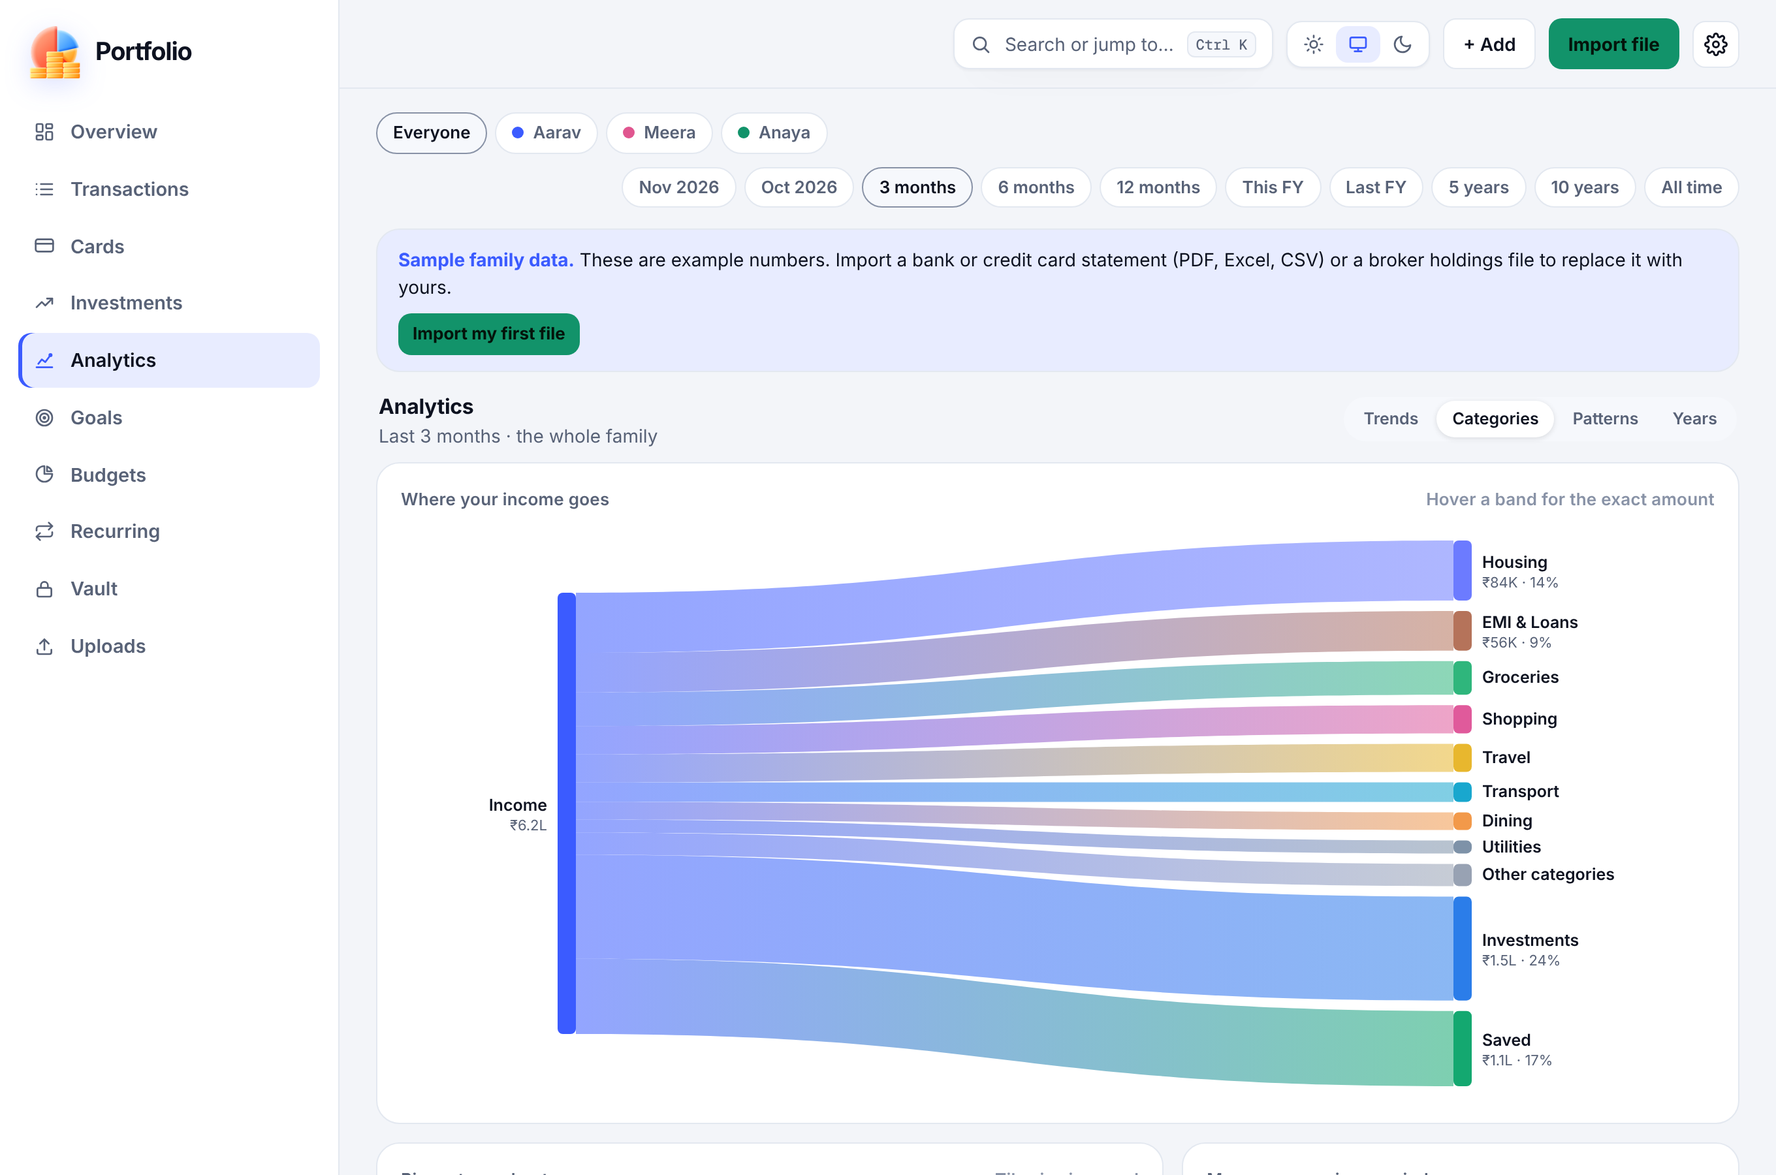
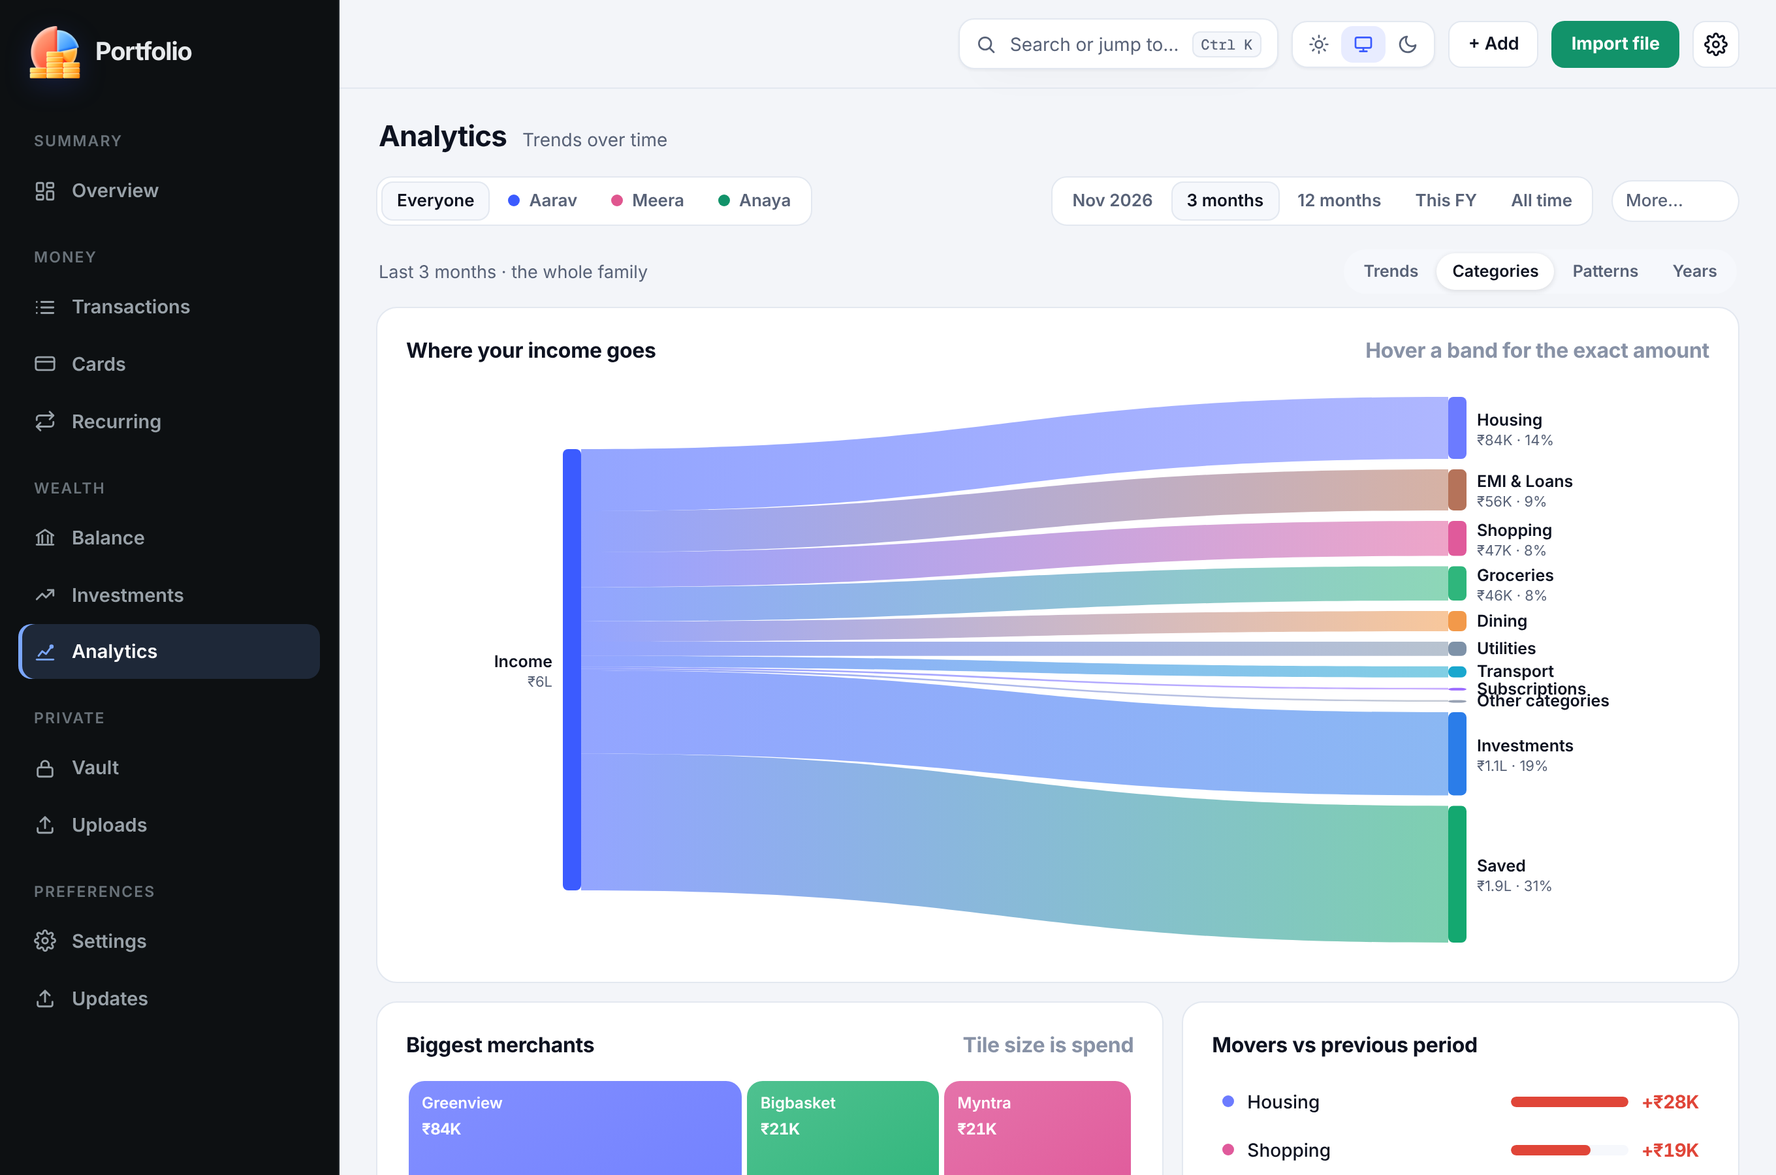
Release 0.3.0: opposite-theme sidebar, smoother motion, Updates page, new screenshots
Claude-Session: https://claude.ai/code/session_01HCoMPc6FfDdFnEnHpuawrr

diff --git a/css/app.css b/css/app.css
@@ -199,17 +199,11 @@ kbd{font:500 11px var(--mono);padding:2px 6px;border-radius:6px;border:1px solid
 .card:hover::before{opacity:1}
 @property --ba{syntax:'<angle>';inherits:false;initial-value:0deg}
 @keyframes spin{to{--ba:360deg}}
-.beam{border:1.5px solid transparent!important;background:linear-gradient(var(--surface),var(--surface)) padding-box,conic-gradient(from var(--ba),transparent 0 58%,var(--accent) 80%,var(--accent2) 92%,transparent 100%) border-box!important}
-.grid>.card.beam{animation:up .6s cubic-bezier(.2,.8,.2,1) backwards,spin 7s linear infinite}
 .noanim .grid>.card,.noanim .cards>.card,.noanim #txrows,.noanim .onb,.noanim .coming,.noanim .hero{animation:none!important}
-.noanim .grid>.card.beam{animation:spin 7s linear infinite!important}
 .noanim .b-in,.noanim .b-out,.noanim .seg{animation:none!important}
-.hero{display:flex;flex-wrap:wrap;justify-content:space-between;align-items:flex-end;gap:12px;margin:6px 2px 16px;animation:up .6s cubic-bezier(.2,.8,.2,1) backwards}
 .eyebrow{font-size:12px;font-weight:600;letter-spacing:.08em;text-transform:uppercase;color:var(--accent)}
-.hero h1{margin:4px 0 2px;font-size:clamp(28px,4.4vw,42px);line-height:1.1;letter-spacing:-.035em;font-weight:650}
 .gtext{background:linear-gradient(100deg,var(--fg) 0%,var(--accent) 35%,var(--accent2) 60%,var(--fg) 100%);background-size:250% 100%;-webkit-background-clip:text;background-clip:text;-webkit-text-fill-color:transparent;color:var(--fg);animation:sheen 9s ease-in-out infinite alternate}
 @keyframes sheen{to{background-position:100% 0}}
-.hero p{margin:0}.hero-r{display:flex;gap:8px;flex-wrap:wrap}
 .coming{display:flex;align-items:center;gap:14px;margin-bottom:14px;padding:10px 16px;border:1px solid var(--line);border-radius:18px;background:var(--surface);box-shadow:var(--shadow);min-width:0;animation:up .6s .05s cubic-bezier(.2,.8,.2,1) backwards}
 .clabel{display:flex;flex-direction:column;flex:none;line-height:1.25}.clabel span{font-size:12px;font-weight:600;color:var(--muted)}.clabel b{font-size:17px;font-weight:550}.clabel small{color:var(--faint);font-size:11.5px}
 .marq{flex:1;min-width:0;overflow:hidden;-webkit-mask-image:linear-gradient(90deg,transparent,#000 5%,#000 95%,transparent);mask-image:linear-gradient(90deg,transparent,#000 5%,#000 95%,transparent)}
@@ -322,9 +316,6 @@ body{background-image:none}
   main{max-width:1280px}
 }
 .kpi::after,body::before{display:none}
-.beam{border:1px solid var(--line)!important;background:var(--surface)!important;animation:none!important}
-.hero h1,.hero h1 *{background:none!important;-webkit-text-fill-color:currentColor!important;color:var(--fg)!important}
-.hero h1{font-size:clamp(26px,3.4vw,34px)}
 .kpi .val{font-weight:650}
 .card .foot{flex-wrap:wrap}
 /* KPI cards */
@@ -464,13 +455,19 @@ select:hover,.csel:hover{border-color:color-mix(in srgb,var(--fg) 25%,var(--line
 .split .lrow .nm{overflow:visible;text-overflow:clip;white-space:normal;line-height:1.25}
 .split .lrow{gap:8px}
 
-/* ---- dark sidebar in every theme (Finstack-style) ---- */
+/* ---- sidebar is the opposite of the page: dark beside a light page, light beside a dark page ---- */
 @media(min-width:1100px){
   .tabs{--fg:#E7EAEC;--muted:#98A1A8;--faint:#6A737A;--surface-2:#1a1e21;--line:#22272b;--accent-soft:rgba(123,167,255,.16);--accent:#7BA7FF;background:#0d1012;color:var(--fg)}
-  .tabs .navh{color:#6A737A}
-  .tabs button{color:#98A1A8}
+  .tabs .navh{color:#6A737A}.tabs button{color:#98A1A8}
   .tabs button:hover,.tabs button[aria-selected=true]{color:#fff}
 }
+@media(min-width:1100px) and (prefers-color-scheme:dark){:root:not([data-theme="light"]) .tabs{--fg:#12161A;--muted:#58636D;--faint:#8A949D;--surface-2:#EDF0F3;--line:#E3E7EB;--accent-soft:rgba(47,84,235,.10);--accent:#2F54EB;background:#fff;color:var(--fg)}
+  :root:not([data-theme="light"]) .tabs .navh{color:#8A949D}:root:not([data-theme="light"]) .tabs button{color:#58636D}
+  :root:not([data-theme="light"]) .tabs button:hover,:root:not([data-theme="light"]) .tabs button[aria-selected=true]{color:#12161A}}
+@media(min-width:1100px){:root[data-theme="dark"] .tabs{--fg:#12161A;--muted:#58636D;--faint:#8A949D;--surface-2:#EDF0F3;--line:#E3E7EB;--accent-soft:rgba(47,84,235,.10);--accent:#2F54EB;background:#fff;color:var(--fg)}
+  :root[data-theme="dark"] .tabs .navh{color:#8A949D}:root[data-theme="dark"] .tabs button{color:#58636D}
+  :root[data-theme="dark"] .tabs button:hover,:root[data-theme="dark"] .tabs button[aria-selected=true]{color:#12161A}}
+@media(min-width:1100px){.tabs{transition:background-color .5s ease,color .5s ease,border-color .5s ease}.tabs button{transition:background-color .2s,color .2s,transform .2s}.tabs button:active{transform:scale(.98)}}
 /* transaction summary cards */
 .txsum{display:grid;grid-template-columns:repeat(4,minmax(0,1fr));gap:12px;margin-bottom:14px}
 .txsum .card{padding:14px 16px}
@@ -495,3 +492,22 @@ select:hover,.csel:hover{border-color:color-mix(in srgb,var(--fg) 25%,var(--line
 .hatch::after{content:'';position:absolute;inset:0;width:var(--w,100%);border-radius:8px;background:repeating-linear-gradient(90deg,color-mix(in srgb,var(--c) 55%,transparent) 0 2px,transparent 2px 5px);border-right:2px solid var(--c);animation:hw .9s cubic-bezier(.2,.8,.2,1) both}
 .hatch.in{--c:var(--in)}.hatch.out{--c:var(--out)}
 @keyframes hw{from{width:0}}
+.tbl table{table-layout:fixed}
+.tbl th:first-child{width:30%}
+@media(max-width:700px){.tbl table{table-layout:auto}}
+@media(max-width:700px){.pills,.mem{flex-wrap:nowrap;overflow-x:auto;max-width:100%;scrollbar-width:none}.pill{white-space:nowrap}}
+
+/* ---- buttery motion ---- */
+html{scroll-behavior:smooth}
+#main>*{animation:viewin .45s cubic-bezier(.2,.8,.2,1) both}
+#main>*:nth-child(2){animation-delay:40ms}#main>*:nth-child(3){animation-delay:80ms}#main>*:nth-child(4){animation-delay:120ms}#main>*:nth-child(n+5){animation-delay:160ms}
+@keyframes viewin{from{opacity:0;transform:translateY(10px)}to{opacity:1;transform:none}}
+.btn,.pill,.fchip,.seg button,.tabs button,select,.in-t,.card,.tg,.chip{transition:background-color .2s ease,color .2s ease,border-color .2s ease,box-shadow .25s ease,transform .2s cubic-bezier(.2,.8,.2,1),opacity .2s}
+.btn:hover{transform:translateY(-1px);box-shadow:0 4px 14px rgba(0,0,0,.08)}
+.btn:active,.pill:active,.fchip:active{transform:scale(.96)}
+.card:hover{box-shadow:0 8px 28px rgba(0,0,0,.06)}
+.lr,.lrow,.srow{transition:background-color .2s}
+.lr:hover,.lrow:hover{background:color-mix(in srgb,var(--fg) 3%,transparent)}
+.prog>i,.hatch::after{transition:width .7s cubic-bezier(.2,.8,.2,1)}
+:focus-visible{outline:2px solid var(--accent);outline-offset:2px;transition:outline-offset .15s}
+@media(prefers-reduced-motion:reduce){*,*::before,*::after{animation-duration:.01ms!important;animation-delay:0s!important;transition-duration:.01ms!important;scroll-behavior:auto!important}}

diff --git a/js/app.js b/js/app.js
@@ -1,6 +1,6 @@
 (()=>{
 'use strict';
-const VERSION='0.2.0'; /* keep in sync with version.json and package.json: run deploy/bump.sh */
+const VERSION='0.3.0'; /* keep in sync with version.json and package.json: run deploy/bump.sh */
 const $=(s,r=document)=>r.querySelector(s);
 /* Neutralise spreadsheet formulas (=,+,-,@) and tabs/newlines in copied or exported cells. */
 const xcell=v=>{v=String(v??'').replace(/[\t\r\n]+/g,' ');return /^[=+\-@]/.test(v)?"'"+v:v};
@@ -464,23 +464,11 @@ const tick=(v,f='m')=>`<span data-n="${v}" data-f="${f}">${TICK[f](v)}</span>`;
 function runTickers(root){root.querySelectorAll('[data-n]').forEach(el=>{const to=+el.dataset.n,f=TICK[el.dataset.f],t0=performance.now(),d=1100;const step=t=>{const k=Math.min(1,(t-t0)/d),e=k===1?1:1-Math.pow(2,-10*k);el.textContent=f(to*e);if(k<1)requestAnimationFrame(step)};el.textContent=f(0);requestAnimationFrame(step)})}
 function ring(p,size,sw,col){const r=(size-sw)/2,C=2*Math.PI*r,c=size/2;return`<svg width="${size}" height="${size}" viewBox="0 0 ${size} ${size}" style="transform:rotate(-90deg)" aria-hidden="true"><circle cx="${c}" cy="${c}" r="${r}" fill="none" stroke="var(--surface-2)" stroke-width="${sw}"/><circle class="ring-fg" cx="${c}" cy="${c}" r="${r}" fill="none" stroke="${col}" stroke-width="${sw}" stroke-linecap="round" stroke-dasharray="${C}" stroke-dashoffset="${C}" data-off="${C*(1-Math.max(0,Math.min(100,p))/100)}"/></svg>`}
 const clamp=v=>Math.max(0,Math.min(100,v));
-function health(cur,c,rate,days){if(c.inc<=0)return null;const months=Math.max(1,days/30.4),f=[];
-  f.push(['Savings rate',clamp(rate/25*100),`${Math.max(0,rate).toFixed(0)}% kept`,.35]);
-  const invOut=-cur.filter(t=>t.cat==='Investments').reduce((a,t)=>a+t.amt,0),ip=invOut/c.inc*100;f.push(['Investing',clamp(ip/15*100),`${ip.toFixed(0)}% invested`,.25]);
-  const fixed=recurring().filter(x=>x.sign<0&&x.cat!=='Investments').reduce((a,x)=>a+x.monthly,0),burden=fixed/(c.inc/months);f.push(['Fixed bills',clamp(100-(burden-.3)/.4*100),`${Math.round(burden*100)}% of income`,.2]);
-  const score=Math.round(f.reduce((a,x)=>a+x[1]*x[3],0));
-  return{score,f:f.map(x=>[x[0],Math.round(x[1]),x[2]]),label:score>=75?'Strong':score>=50?'Fair':'Needs care'}}
-function healthCard(h){if(!h)return`<div class="card s4"><h3>Financial health</h3><div class="muted">Add income in this period to see your score.</div></div>`;
-  const col=h.score>=75?'var(--in)':h.score>=50?'var(--warn)':'var(--out)',tone=h.score>=75?'good':h.score>=50?'warn':'bad';
-  return`<div class="card s4 beam"><h3>Financial health <span class="chip ${tone}">${h.label}</span></h3><div class="hs"><div class="ringw" style="width:132px;height:132px">${ring(h.score,132,12,col)}<div class="ringc"><b class="num" style="font-size:30px;font-weight:550">${tick(h.score,'n')}</b><small>out of 100</small></div></div>
-  <div class="fac">${h.f.map(f=>`<div><div class="fr"><span>${f[0]}</span><span class="num muted">${esc(f[2])}</span></div><div class="prog" style="--c:${f[1]>=70?'var(--in)':f[1]>=40?'var(--warn)':'var(--out)'}"><i style="width:${f[1]}%"></i></div></div>`).join('')}</div></div></div>`}
 function upcoming(){const b=bounds();if(!b)return[];return recurring().filter(x=>x.sign<0&&x.next>=addDays(b.mx,-1)&&x.next<=addDays(b.mx,30)).sort((a,c)=>a.next<c.next?-1:1)}
 function marquee(up){if(!up.length)return'';const mx=bounds().mx,total=up.reduce((a,x)=>a+x.amt,0);
   const chip=x=>{const d=daysBetween(mx,x.next);return`<span class="bill"><i class="dot" style="--c:${CC[x.cat]}"></i>${esc(pretty(x.k))}<b class="num">${compact(x.amt)}</b><em>${d<=0?'due now':d===1?'tomorrow':'in '+d+' days'}</em></span>`};
   const it=up.map(chip).join(''),run=up.length>=4;
   return`<div class="coming"><div class="clabel"><span>Coming up</span><b class="num">${compact(total)}</b><small>next 30 days</small></div><div class="marq ${run?'run':''}"><div class="mt">${it}${run?it:''}</div></div></div>`}
-function hero(rg){const h=new Date().getHours(),g=h<12?'Good morning':h<17?'Good afternoon':'Good evening',who=S.member==='all'?'the whole family':memOf(S.member).name;
-  return`<div class="hero"><div><div class="eyebrow">${esc(rg.label)} · ${esc(who)}</div><h1 class="gtext">${g}</h1><p class="muted">Here is how ${esc(S.member==='all'?'your family':memOf(S.member).name)} is doing.</p></div><div class="hero-r"><span class="chip">${S.tx.length.toLocaleString('en-IN')} transactions</span><span class="chip">${S.uploads.length} files imported</span></div></div>`}
 function onboard(){const real=true;let dis=false;try{dis=localStorage.getItem('pocketbook.onb')==='1'}catch(e){}
   const steps=[['Import a bank or card statement',real&&S.uploads.some(u=>u.kind==='tx'),'import'],['Add your family members',real&&S.members.length>1,'settings'],['Track your investments',real&&S.hold.length>0,'addhold']];
   const n=steps.filter(x=>x[1]).length;if(real&&(n===3||dis||S.tx.length))return'';
@@ -561,8 +549,8 @@ function cards(){const cs=S.accts.filter(a=>a.type==='card'&&(S.member==='all'||
   if(!rg)return empty('No data.');
   const tot=cs.map(c=>{const a=S.tx.filter(t=>t.acct===c.id);return{c,cur:within(a,rg.from,rg.to),prv:rg.pf?within(a,rg.pf,rg.pt):[]}});
   const T=tot.reduce((a,x)=>a+sums(x.cur).sp,0),Tp=tot.reduce((a,x)=>a+sums(x.prv).sp,0);
-  return`<div class="grid" style="margin-bottom:14px"><div class="card kpi s4"><div class="lbl">Card spending · ${esc(rg.label)}</div><div class="val num">${tick(T)}</div><div class="foot">${rg.pf&&Tp?dChip(T,Tp,true)+' <span class="faint">vs prev.</span>':''}</div></div>
-   <div class="card kpi s4"><div class="lbl">Cards</div><div class="val num">${cs.length}</div><div class="foot"><span class="faint">${cs.map(c=>esc(c.name)).join(', ')}</span></div></div></div>
+  return`<div class="grid" style="margin-bottom:14px"><div class="card stat s3"><div class="sl">Card spending · ${esc(rg.label)}</div><div class="sv num">${tick(T)}</div><div class="ss">${rg.pf&&Tp?dChip(T,Tp,true)+' <span>vs previous period</span>':''}</div></div>
+   <div class="card stat s3"><div class="sl">Cards</div><div class="sv num">${cs.length}</div><div class="ss">${cs.map(c=>esc(c.name)).join(', ')}</div></div></div>
    <div class="cards">${tot.map(({c,cur,prv})=>{const sp=sums(cur).sp,spp=sums(prv).sp,cats=byCat(cur).slice(0,5),mx=cats[0]?cats[0][1]:1,mm=memOf(c.member);
      const lastM=bounds()&&S.tx.filter(t=>t.acct===c.id&&t.d.slice(0,7)===bounds().mx.slice(0,7));const used=lastM?sums(lastM).sp:0;
      return`<div class="card"><h3><span style="display:flex;gap:8px;align-items:center"><span class="dot" style="--c:${mm.color}"></span>${esc(c.name)}</span><span class="tag">${esc(mm.name)}</span></h3>

diff --git a/tests/screenshots.js b/tests/screenshots.js
@@ -1,8 +1,8 @@
-const {chromium}=require('playwright');
-// Regenerates docs/screenshots from the built-in demo data: node tests/screenshots.js
+const {chromium}=require('playwright');const L=require('./lib');
+// Regenerates docs/screenshots from fictional data (tests/demo-data.js): node tests/screenshots.js
 (async()=>{const b=await chromium.launch();const errs=[];
 const D=require('path').resolve(__dirname,'../docs/screenshots')+'/';
-async function mk(w,h,scheme,mobile){const c=await b.newContext({viewport:{width:w,height:h},deviceScaleFactor:2,colorScheme:scheme,isMobile:!!mobile,hasTouch:!!mobile});const p=await c.newPage();p.on('pageerror',e=>errs.push(e.message));p.on('console',m=>{if(m.type()==='error')errs.push(m.text())});await p.goto('file:///home/user/finance-tracker/index.html');await p.waitForTimeout(1800);return p}
+async function mk(w,h,scheme,mobile){const c=await b.newContext({viewport:{width:w,height:h},deviceScaleFactor:2,colorScheme:scheme,isMobile:!!mobile,hasTouch:!!mobile});const p=await c.newPage();p.on('pageerror',e=>errs.push(e.message));p.on('console',m=>{if(m.type()==='error')errs.push(m.text())});await p.goto('file:///home/user/finance-tracker/index.html');await p.waitForTimeout(1800);await L.loadDemo(p);await p.evaluate(()=>document.querySelector('[data-act=view][data-v=overview]').click());await p.waitForTimeout(1500);return p}
 let p=await mk(1360,900,'light');
 await p.screenshot({path:D+'overview-light.png'});
 await p.click('#tabs [data-v=ana]');await p.waitForTimeout(2200);await p.screenshot({path:D+'analytics-light.png'});
@@ -10,6 +10,8 @@ await p.click('[data-act=anasub][data-v=cats]');await p.waitForTimeout(2000);awa
 await p.click('[data-act=anasub][data-v=patterns]');await p.waitForTimeout(1800);await p.screenshot({path:D+'analytics-patterns.png'});
 await p.click('#tabs [data-v=vault]');await p.waitForTimeout(800);await p.screenshot({path:D+'vault.png'});
 await p.click('#tabs [data-v=inv]');await p.waitForTimeout(1200);await p.screenshot({path:D+'investments.png'});
+await p.click('#tabs [data-v=tx]');await p.waitForTimeout(800);await p.click('.txr .tx');await p.waitForTimeout(700);await p.screenshot({path:D+'transactions.png'});
+await p.click('#tabs [data-v=bal]');await p.waitForTimeout(900);await p.screenshot({path:D+'balance.png'});
 await p.click('#tabs [data-v=overview]');await p.waitForTimeout(500);
 await p.click('[data-act=settings]');await p.waitForSelector('.setp');await p.click('[data-act=guide]');await p.waitForTimeout(500);await p.screenshot({path:D+'guide.png'});
 p=await mk(1360,900,'dark');await p.click('[data-theme-set=dark]').catch(()=>{});await p.waitForTimeout(1200);await p.screenshot({path:D+'overview-dark.png'});

diff --git a/CHANGELOG.md b/CHANGELOG.md
@@ -4,6 +4,19 @@ All notable changes are listed here. The format follows [Keep a Changelog](https
 
 ## [Unreleased]
 
+## [0.3.0] - 2026-11-22
+### Added
+- **Updates** page: check GitHub, read what changed and install a release in one click through `update.php` on your own site (verifies SHA-256, keeps a backup).
+- Transactions: expandable rows (details, change category, copy), filter panel with category and account chips and a count badge, summary cards, tinted category tags, staggered fade-in.
+- Overview: dark net-worth hero with a 12-month line, striped income and spending bars, cursor spotlight on cards.
+
+### Changed
+- Sidebar is the opposite of the page (dark beside a light page, light beside a dark one) and swaps when you switch theme; smoother motion throughout (page transitions, hover and press feedback, reduced-motion respected); shorter period bar with a More menu; styled tables; onboarding card hidden once you have data; Cards page uses the new stat cards.
+- README screenshots regenerated from fictional data.
+
+### Removed
+- Old unused styles and code (health score, greeting header, animated borders).
+
 ## [0.2.0] - 2026-11-22
 ### Fixed
 - **Data safety.** Saved data can no longer be replaced or deleted by a stale tab or a failed start. Every save keeps a mirror copy, the previous version and a daily snapshot; if the main copy is missing the app offers to restore from them. A tab that finds newer data written elsewhere stops saving and asks you to reload. The app asks the browser for persistent storage, and shows a banner if a save fails.
@@ -13,13 +26,6 @@ All notable changes are listed here. The format follows [Keep a Changelog](https
 - **Balance** tab under Wealth: bank balances and other holdings, as a total and per family member.
 - Dedicated **Settings** page (General, Family, Accounts, Security, Backup, Data tools, About).
 - Grouped sidebar with page titles and subtitles, new stat cards, buttons and segmented controls.
-
-- Transactions: click a row to expand it (details, change category, copy), filter panel with category and account chips and a count badge, tinted category tags, staggered fade-in.
-- Dark sidebar in light and dark themes; summary cards above the transaction list.
-- Overview: dark net-worth hero with a 12-month line, striped income and spending bars, cursor spotlight on cards.
-- Shorter period bar (five common periods plus a More menu); onboarding card hidden once you have data; styled tables.
-
-- **Updates** page: check GitHub for a new release, read what changed and install it in one click. It talks to `update.php` on your own site, which downloads the release, verifies its SHA-256 and keeps a backup. Needs `update.php` uploaded once (see the hosting guide).
 
 ### Removed
 - Demo data, Goals and Budgets.

diff --git a/README.md b/README.md
@@ -17,9 +17,12 @@ No server. No database. No tracking. Your data stays in your browser.</p>
 | **Family** | Members, accounts, credit cards with limits and utilisation, per-person views. |
 | **Analytics** | Spending flow, income-to-spend Sankey, merchant treemap, daily calendar, year-by-month heatmap, year-over-year lines, savings rate, 3-month outlook, unusual payments, category growth. |
 | **Investments** | Stocks, mutual funds, PPF, EPF, NPS, Sukanya Samriddhi, LIC, FDs, gold, with annual limit trackers. |
-| **Balance, bills** | Recurring payment detection and upcoming bills, transfer matching between your accounts. |
+| **Balance** | What you hold today: bank balances and other holdings, as a total and per family member. |
+| **Bills** | Recurring payment detection and upcoming bills, transfer matching between your accounts. |
 | **Vault** | Card, account, PAN, Aadhaar and policy numbers. Last four characters show, the rest after you click Reveal. One-click copy. |
 | **Copy anything** | Every transaction can be copied; copy a whole filtered list for Excel or as CSV. |
+| **Data safety** | Every save keeps a mirror copy, the previous version and a daily snapshot, and the app offers to restore them if the main copy goes missing. Another tab can never overwrite newer data. Persistent storage is requested; a banner appears if a save fails. Back up from Settings anyway. |
+| **Updates** | An in-app Updates page installs new GitHub releases onto your own site (needs `deploy/update.php`). |
 | **Themes** | Light, dark and system with an animated reveal. |
 
 <p align="center">
@@ -31,7 +34,8 @@ No server. No database. No tracking. Your data stays in your browser.</p>
 <p align="center">
 <img src="docs/screenshots/mobile-overview.png" width="220" alt="Mobile overview">
 <img src="docs/screenshots/mobile-analytics.png" width="220" alt="Mobile analytics">
-<img src="docs/screenshots/vault.png" width="440" alt="Vault">
+<img src="docs/screenshots/transactions.png" width="440" alt="Transactions">
+<img src="docs/screenshots/balance.png" width="440" alt="Balance">
 </p>
 
 ## Install on cPanel (shared hosting)
